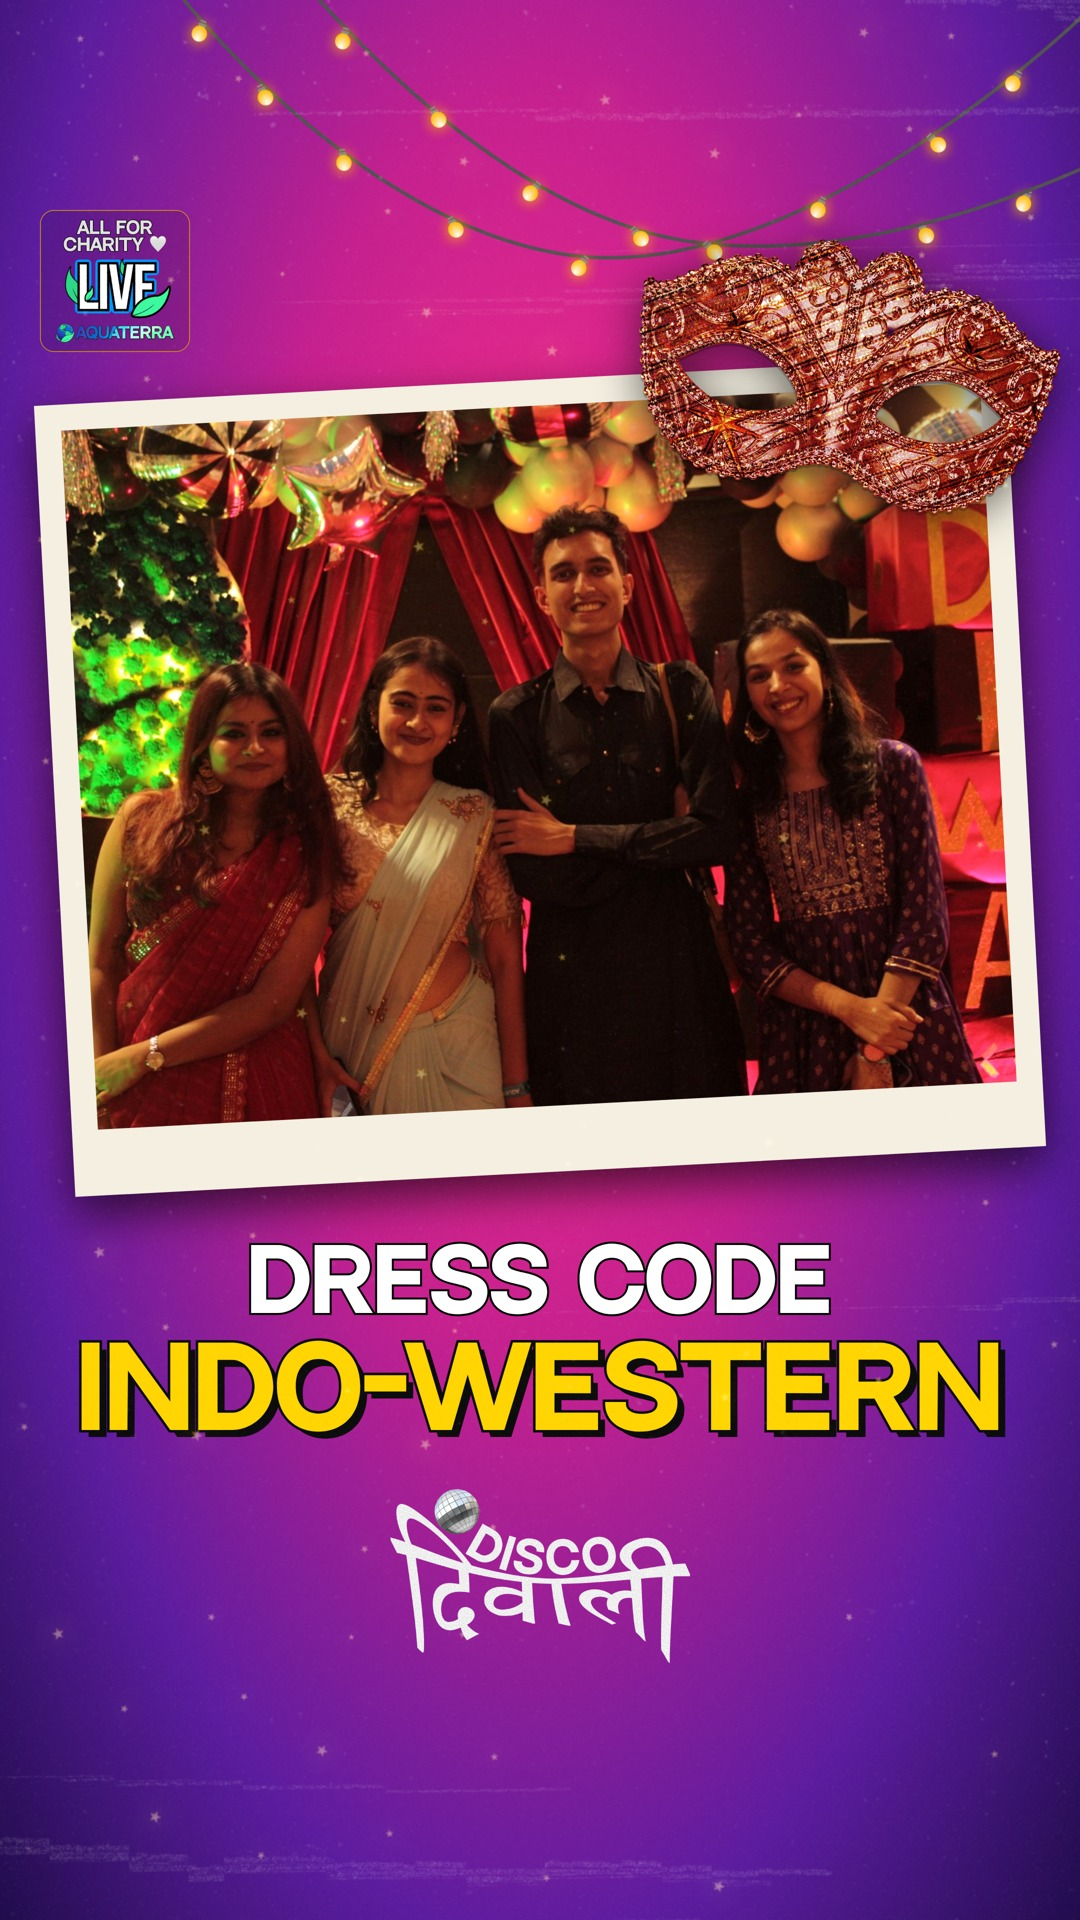
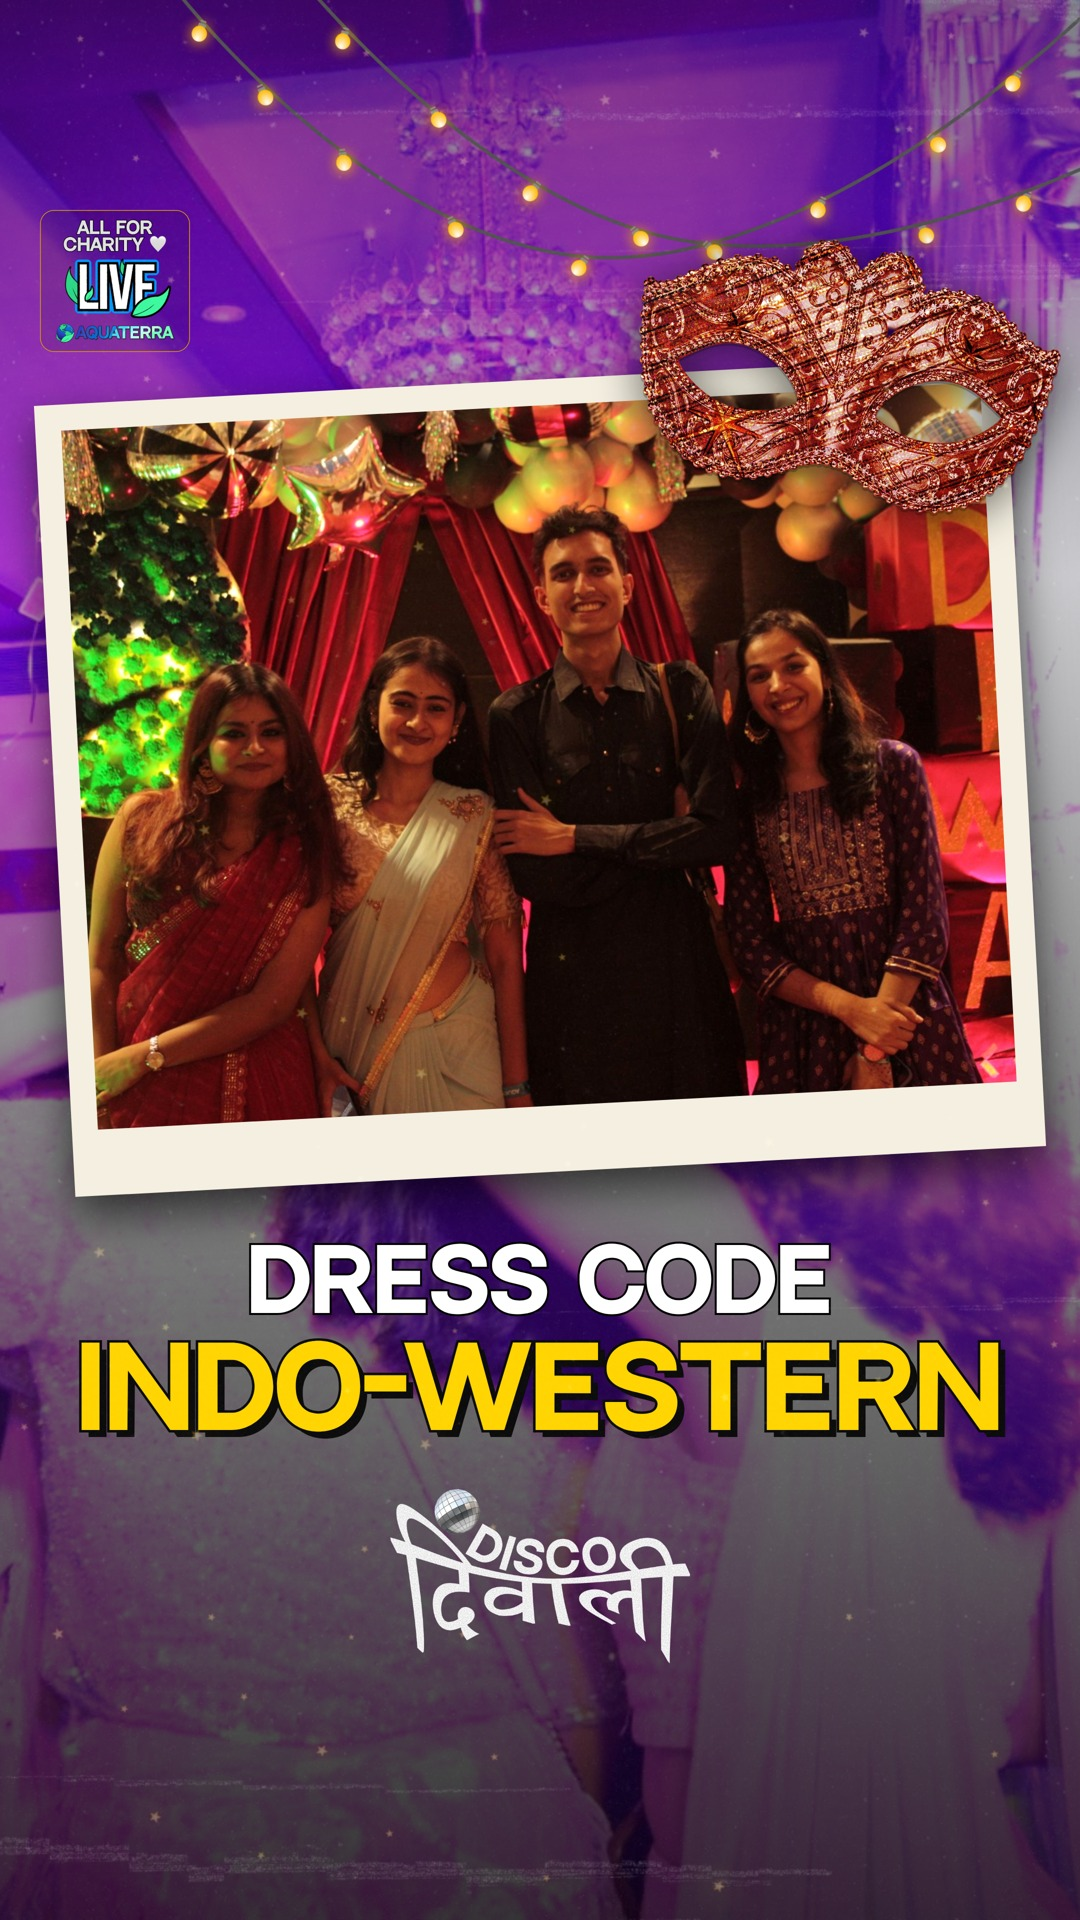
Dress code poster: full-bleed event photo ground graded like the bulk stories, gold INDO-WESTERN
Claude-Session: https://claude.ai/code/session_011Tdiin6aNXQLggVhcwaFdk

diff --git a/scratchpad/dd_dresscode.py b/scratchpad/dd_dresscode.py
@@ -8,15 +8,18 @@ ROOT = os.path.dirname(os.path.dirname(os.path.abspath(__file__)))
 sys.path.insert(0, os.path.join(ROOT, "engine")); sys.path.insert(0, os.path.dirname(os.path.abspath(__file__)))
 spec = importlib.util.spec_from_file_location("discodiwali", os.path.join(ROOT, "engine", "discodiwali.py"))
 dd = importlib.util.module_from_spec(spec); spec.loader.exec_module(dd)
+import dd_photo_bg as PB
 B = dd.B; W = 1080
 OUT = os.path.join(ROOT, "out", "discodiwali", "dresscode")
 PHOTO = os.path.join(ROOT, "engine", "assets", "img", "events", "disco-diwali-dresscode", "01_four-friends-booth.jpg")
 STROKE = "color:#fff;-webkit-text-stroke:4px #000;paint-order:stroke fill;"
 def poster(H):
     story = H > 1350
-    parts, els = [(f'<div data-tag="plate" style="position:absolute;inset:0;z-index:0;background:radial-gradient(ellipse at 50% 38%,#FF2D87 0%,#C41E8E 38%,#5B1A9E 72%,#1E0A4A 100%)"></div>'
+    parts, els = [(f'<div data-tag="plate" style="position:absolute;inset:0;z-index:0;background:#000"></div>'
+                   f'<img data-tag="plate" src="{dd.photo_uri(PB.find(dd, "14_07"), 1800)}" style="position:absolute;inset:0;width:{W}px;height:{H}px;object-fit:cover;object-position:50% 40%;z-index:1;filter:contrast(1.08) saturate(1.1) brightness(.92)">'
+                   f'<div data-tag="plate" style="position:absolute;inset:0;z-index:2;pointer-events:none;background:linear-gradient(180deg,rgba(8,6,30,.5) 0%,rgba(8,6,30,.15) 30%,rgba(0,0,0,.45) 58%,rgba(0,0,0,.78) 100%)"></div>'
                    f'<img data-tag="lights" src="{dd.uri("string_lights.png")}" style="position:absolute;left:160px;top:-53px;width:1045px;z-index:5">'
-                   f'<img data-tag="plate" src="{dd.uri("sparkles.png")}" style="position:absolute;inset:0;width:{W}px;height:{H}px;object-fit:cover;z-index:30;mix-blend-mode:screen;opacity:.7;pointer-events:none">'
+                   f'<img data-tag="plate" src="{dd.uri("sparkles.png")}" style="position:absolute;inset:0;width:{W}px;height:{H}px;object-fit:cover;z-index:30;mix-blend-mode:screen;opacity:.55;pointer-events:none">'
                    f'<img data-tag="plate" src="{dd.uri("grain.png")}" style="position:absolute;inset:0;width:{W}px;height:{H}px;object-fit:cover;z-index:31;mix-blend-mode:screen;opacity:.3;pointer-events:none">')], []
     bx, by, bw = 40, (210 if story else 40), 150
     parts.append(f'<img data-tag="badge" src="{dd.uri("live_badge.png")}" style="position:absolute;left:{bx}px;top:{by}px;width:{bw}px;z-index:20">'); els.append(("badge", bx, by, bw, round(bw * 1005 / 1061)))
@@ -51,5 +54,5 @@ async def main():
         for name, H in (("feed", 1350), ("story", 1920)):
             inner, els, bottom = poster(H); print(f"[{name}] last element ends at y={bottom} of {H}")
             await B.render(B.page(W, H, "#000", inner, grain=False), os.path.join(OUT, f"{name}.png"), W, H, elements=els, bleed_tags=("plate", "lights", "h2"), crop_tags=("plate",), page_bg="#000",
-                           collision_ignore=[("frame", "sticker"), ("frame", "badge")], text_pairs=[("h2", "#FFD400", "#C41E8E", 108, True)])
+                           collision_ignore=[("frame", "sticker"), ("frame", "badge")], text_pairs=[("h2", "#FFD400", "#3A1060", 108, True)])
 asyncio.run(main())
